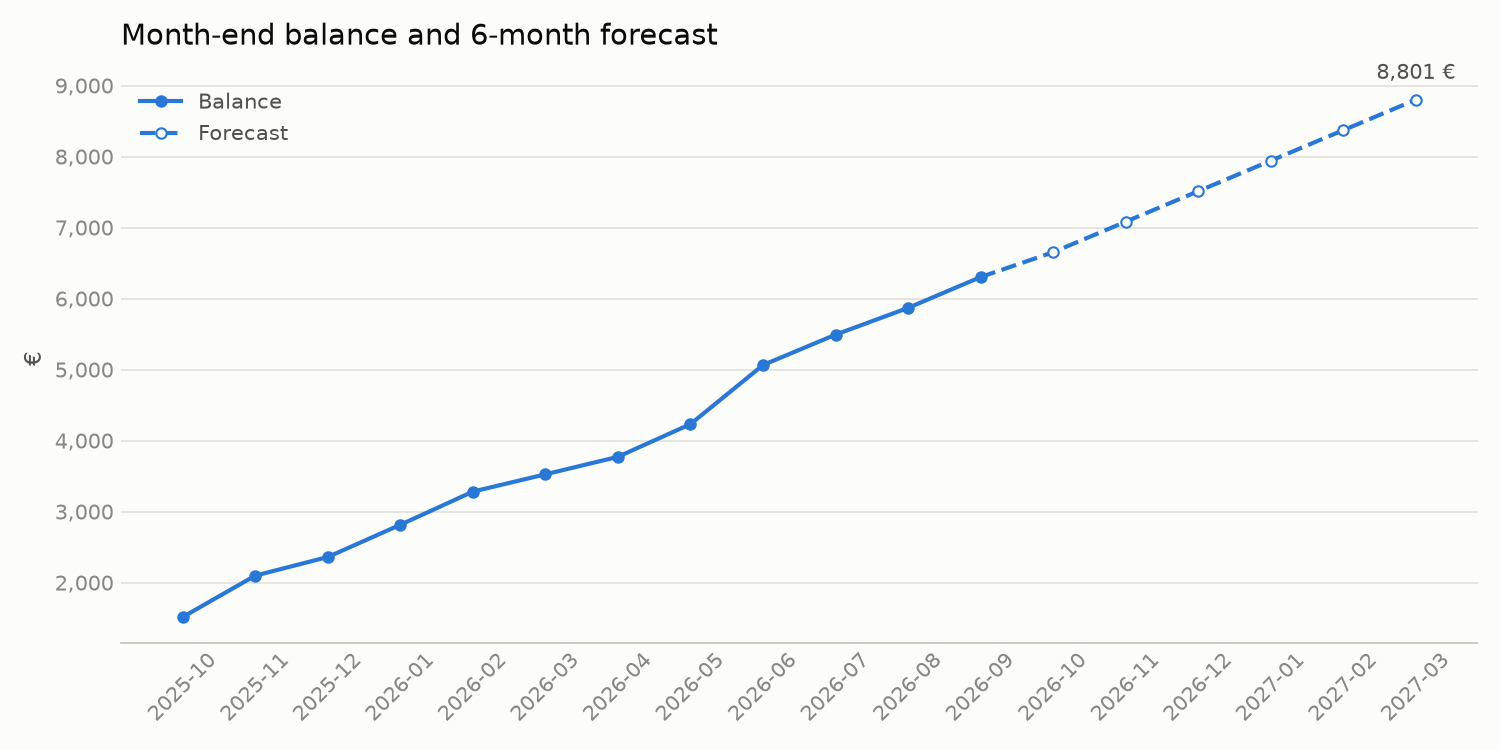
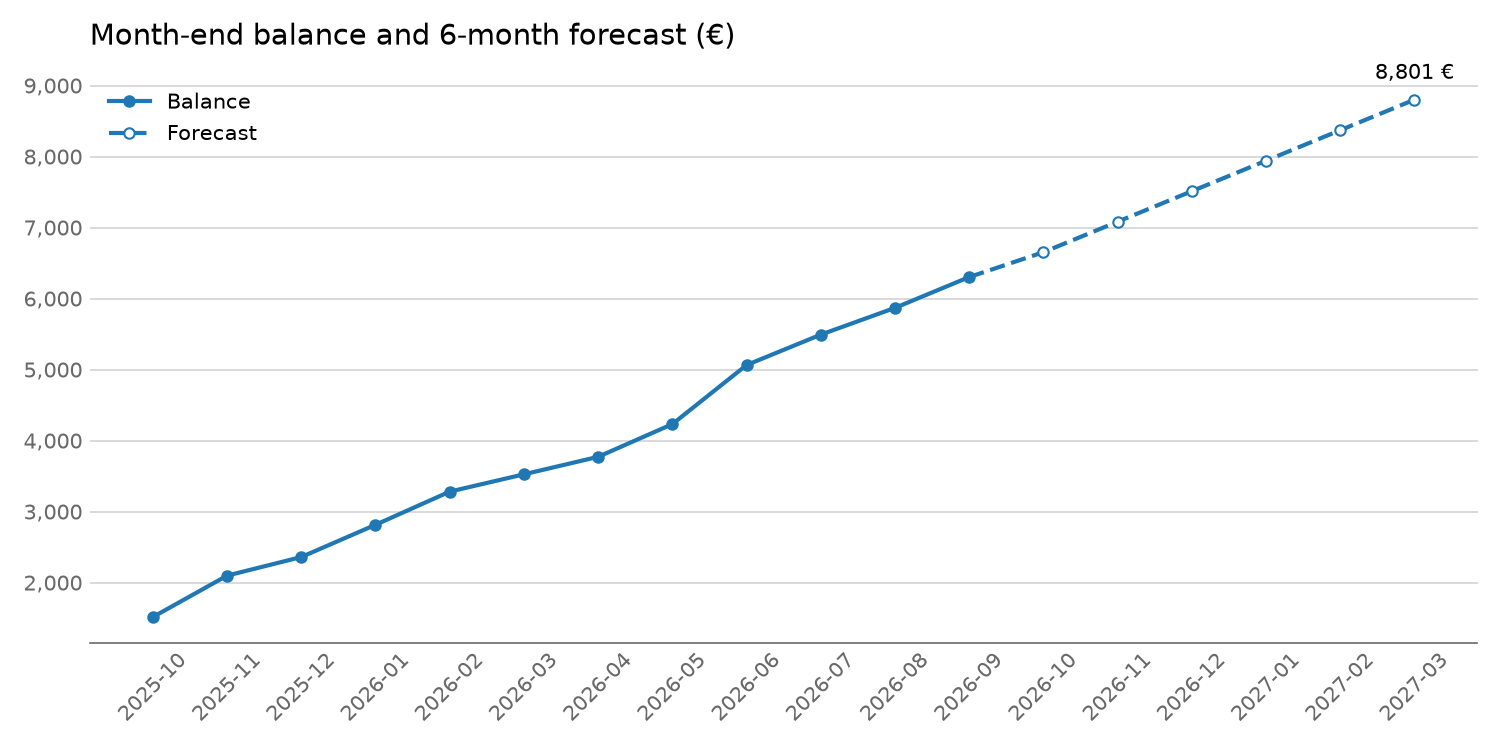
Improve table and chart formatting

diff --git a/src/finance_analyzer/plots.py b/src/finance_analyzer/plots.py
@@ -14,34 +14,27 @@ from finance_analyzer.account import Account
 from finance_analyzer.forecast import forecast_balance, month_end_balances
 
 # Colors (one place, so every chart looks the same)
-BLUE = "#2a78d6"
-ORANGE = "#eb6834"
-SURFACE = "#fcfcfb"
-TEXT = "#0b0b0b"
-TEXT_SECONDARY = "#52514e"
-TEXT_MUTED = "#898781"
-GRID = "#e1e0d9"
-BASELINE = "#c3c2b7"
+BLUE = "tab:blue"
+ORANGE = "tab:orange"
+GRAY = "dimgray"
+LIGHT_GRAY = "lightgray"
 
 
-def _style(ax: plt.Axes, title: str, ylabel: str = "") -> None:
-    """Give a chart the shared look: light grid, no box, readable labels."""
-    ax.set_facecolor(SURFACE)
-    ax.set_title(title, loc="left", fontsize=14, color=TEXT, pad=14)
-    ax.set_ylabel(ylabel, fontsize=11, color=TEXT_SECONDARY)
-    ax.tick_params(colors=TEXT_MUTED, labelsize=10, length=0)
-    ax.grid(axis="y", color=GRID, linewidth=0.8)
+def _style(ax: plt.Axes, title: str, title_pad: int = 14) -> None:
+    """Give a chart the shared look: title, light grid, no box."""
+    ax.set_title(title, loc="left", fontsize=14, pad=title_pad)
+    ax.tick_params(colors=GRAY, labelsize=10, length=0)
+    ax.grid(axis="y", color=LIGHT_GRAY, linewidth=0.8)
     ax.set_axisbelow(True)
-    ax.yaxis.set_major_formatter(StrMethodFormatter("{x:,.0f}"))
     for side in ("top", "right", "left"):
         ax.spines[side].set_visible(False)
-    ax.spines["bottom"].set_color(BASELINE)
+    ax.spines["bottom"].set_color(GRAY)
 
 
 def _save(fig: plt.Figure, path: Path) -> Path:
     path.parent.mkdir(parents=True, exist_ok=True)
     fig.tight_layout()
-    fig.savefig(path, dpi=150, facecolor=SURFACE)
+    fig.savefig(path, dpi=150)
     plt.close(fig)
     return path
 
@@ -53,17 +46,13 @@ def plot_monthly(account: Account, path: Path) -> Path:
     x = range(len(months))
     width = 0.38
 
-    # A thin border in the background color leaves a small gap between bars
-    gap = {"edgecolor": SURFACE, "linewidth": 1.5}
-
-    fig, ax = plt.subplots(figsize=(10, 5), facecolor=SURFACE)
+    fig, ax = plt.subplots(figsize=(10, 5))
     ax.bar(
         [i - width / 2 for i in x],
         summary["income"],
         width,
         color=BLUE,
         label="Income",
-        **gap,
     )
     ax.bar(
         [i + width / 2 for i in x],
@@ -71,21 +60,12 @@ def plot_monthly(account: Account, path: Path) -> Path:
         width,
         color=ORANGE,
         label="Expenses",
-        **gap,
     )
     ax.set_xticks(list(x), months, rotation=45, ha="right")
-    _style(ax, "Income vs. expenses per month", "€")
+    ax.yaxis.set_major_formatter(StrMethodFormatter("{x:,.0f}"))
+    _style(ax, "Income vs. expenses per month (€)", title_pad=30)
     # Put the legend above the chart so it never covers the bars
-    ax.legend(
-        frameon=False,
-        labelcolor=TEXT_SECONDARY,
-        ncols=2,
-        loc="lower left",
-        bbox_to_anchor=(0, 1.0),
-    )
-    ax.set_title(
-        "Income vs. expenses per month", loc="left", fontsize=14, color=TEXT, pad=30
-    )
+    ax.legend(frameon=False, ncols=2, loc="lower left", bbox_to_anchor=(0, 1.0))
     return _save(fig, path)
 
 
@@ -93,23 +73,17 @@ def plot_categories(account: Account, path: Path) -> Path:
     """Horizontal bar chart: where the money went, biggest category on top."""
     spending = account.spending_by_category().sort_values()
 
-    fig, ax = plt.subplots(figsize=(9, 5), facecolor=SURFACE)
+    fig, ax = plt.subplots(figsize=(9, 5))
     bars = ax.barh(spending.index, spending.to_numpy(), color=BLUE, height=0.6)
-    ax.bar_label(
-        bars,
-        labels=[f"{v:,.0f} €" for v in spending],
-        padding=4,
-        color=TEXT_SECONDARY,
-        fontsize=10,
-    )
-    _style(ax, "Spending per category")
+    ax.bar_label(bars, labels=[f"{v:,.0f} €" for v in spending], padding=4)
+    _style(ax, "Spending per category (€)")
     ax.grid(axis="y", visible=False)
-    ax.grid(axis="x", color=GRID, linewidth=0.8)
+    ax.grid(axis="x", color=LIGHT_GRAY, linewidth=0.8)
     ax.xaxis.set_major_formatter(StrMethodFormatter("{x:,.0f}"))
     ax.spines["bottom"].set_visible(False)
     ax.spines["left"].set_visible(True)
-    ax.spines["left"].set_color(BASELINE)
-    ax.tick_params(axis="y", colors=TEXT_SECONDARY, labelsize=11)
+    ax.spines["left"].set_color(GRAY)
+    ax.tick_params(axis="y", colors="black", labelsize=11)
     ax.margins(x=0.15)
     return _save(fig, path)
 
@@ -123,7 +97,7 @@ def plot_forecast(account: Account, path: Path, months: int = 6) -> Path:
     forecast_x = [str(history.index[-1])] + [str(m) for m in future.index]
     forecast_y = [history.iloc[-1], *future.to_numpy()]
 
-    fig, ax = plt.subplots(figsize=(10, 5), facecolor=SURFACE)
+    fig, ax = plt.subplots(figsize=(10, 5))
     ax.plot(
         [str(m) for m in history.index],
         history.to_numpy(),
@@ -142,7 +116,7 @@ def plot_forecast(account: Account, path: Path, months: int = 6) -> Path:
         linestyle="--",
         marker="o",
         markersize=5,
-        markerfacecolor=SURFACE,
+        markerfacecolor="white",
         markevery=slice(1, None),
         label="Forecast",
     )
@@ -152,12 +126,11 @@ def plot_forecast(account: Account, path: Path, months: int = 6) -> Path:
         textcoords="offset points",
         xytext=(0, 10),
         ha="center",
-        color=TEXT_SECONDARY,
-        fontsize=10,
     )
     ax.tick_params(axis="x", rotation=45)
-    _style(ax, f"Month-end balance and {months}-month forecast", "€")
-    ax.legend(frameon=False, labelcolor=TEXT_SECONDARY, loc="upper left")
+    ax.yaxis.set_major_formatter(StrMethodFormatter("{x:,.0f}"))
+    _style(ax, f"Month-end balance and {months}-month forecast (€)")
+    ax.legend(frameon=False, loc="upper left")
     return _save(fig, path)
 
 

diff --git a/src/finance_analyzer/report.py b/src/finance_analyzer/report.py
@@ -38,7 +38,13 @@ def build_report(
         lines += account.skipped_rows
 
     lines.append(_heading("Monthly summary"))
-    lines.append(account.monthly_summary().to_string(float_format="{:,.2f}".format))
+    summary = account.monthly_summary()
+    lines.append(f"{'Month':<9}{'Income':>12}{'Expenses':>12}{'Net':>12}")
+    for month, income, expenses, net in zip(
+        summary.index, summary["income"], summary["expenses"], summary["net"]
+    ):
+        month = str(month)
+        lines.append(f"{month:<9}{income:>12,.2f}{expenses:>12,.2f}{net:>12,.2f}")
 
     lines.append(_heading("Spending per category"))
     for category, amount in account.spending_by_category().items():
